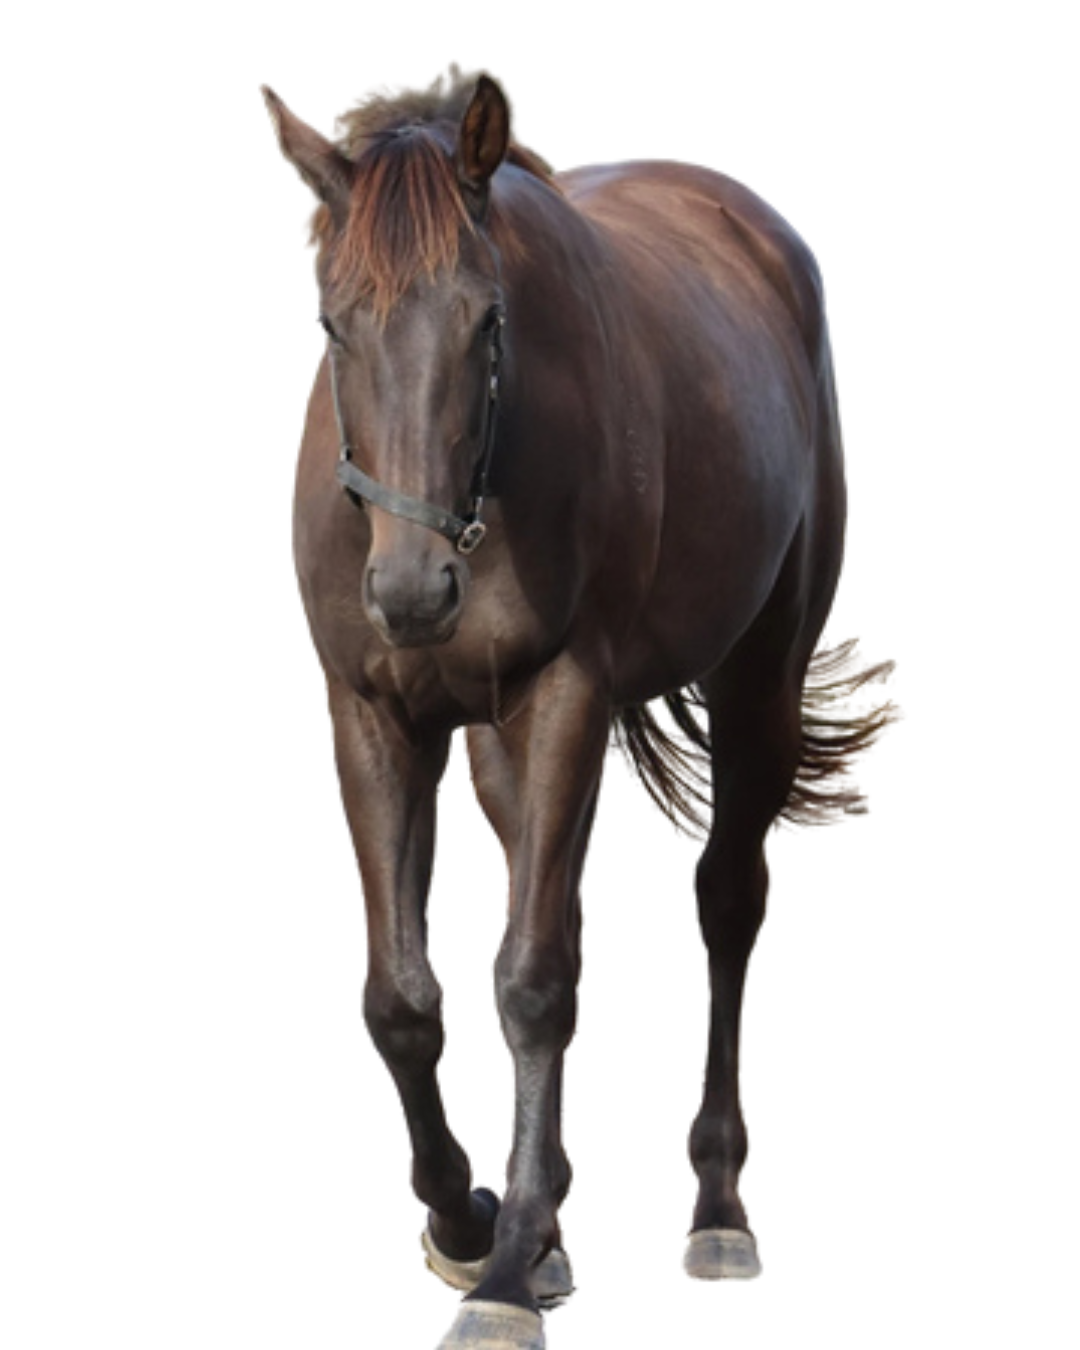
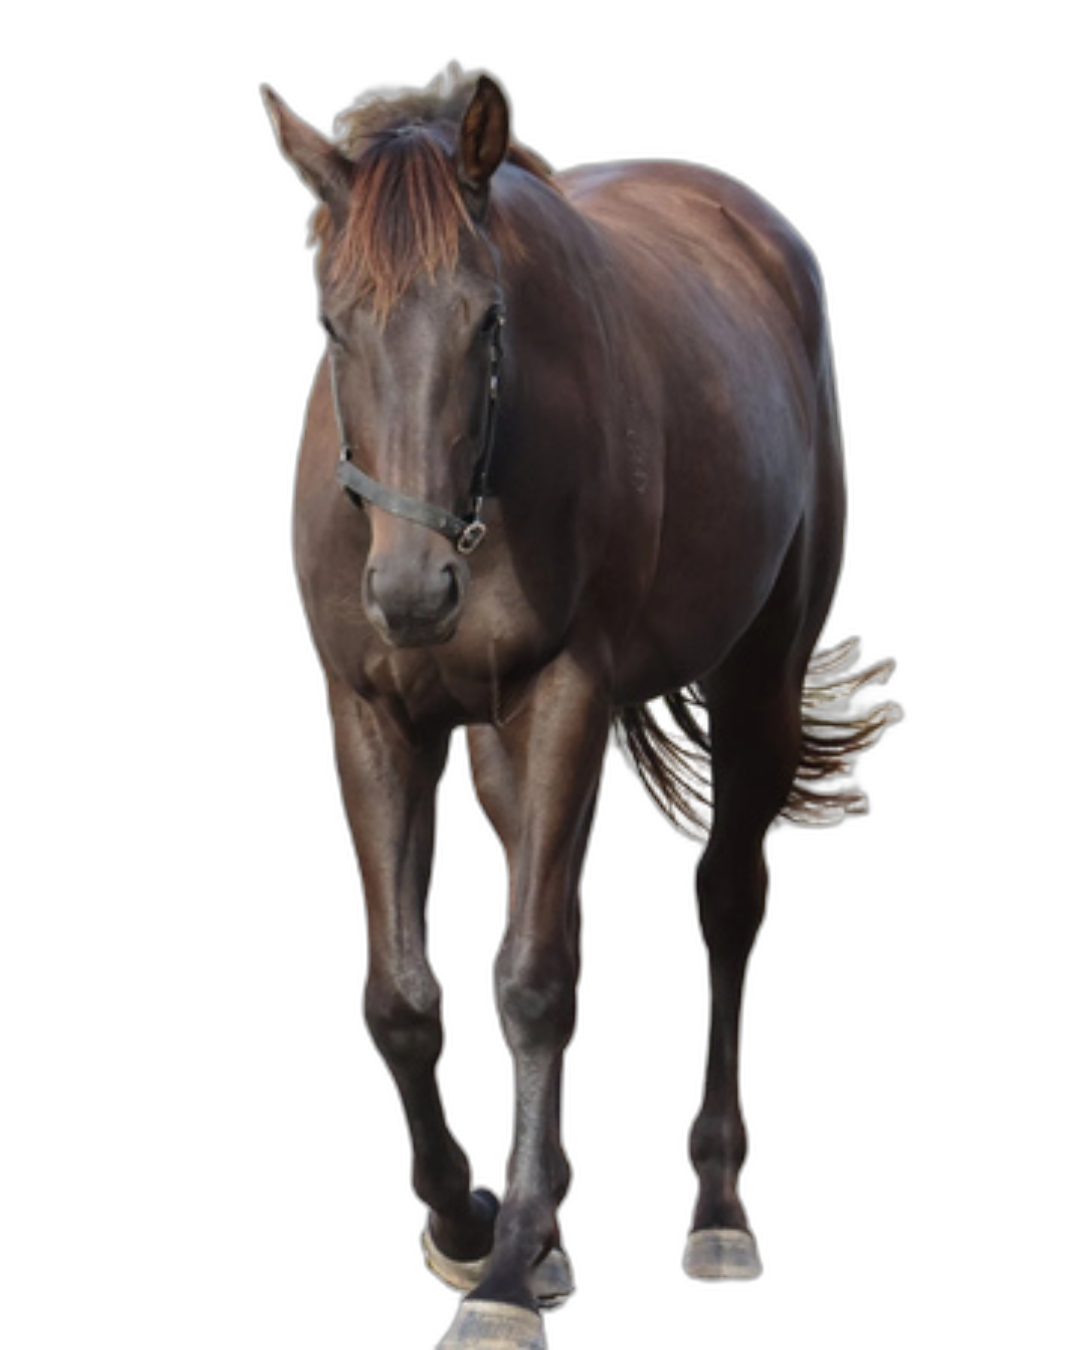
fix(media): re-cut nellie hero to RGBA + edge-white gate; drop dead nztr webp/png pair
- horses/nellie/01.png: RGB-white flatten -> RGBA cutout (rembg), fixes hero, OG image, MyStable thumbnail. Original preserved in media vault (md5-identical).
- packages/storage: edge-white gate test (samples 8 edge pixels, fails >=6 opaque near-white) wired into npm test, negative-proven against the flattened file.
- deleted unreferenced nztr-authorized-syndicator.{png,webp} (RGB-white trap, referenced nowhere).

diff --git a/packages/storage/tests/edge_white.test.ts b/packages/storage/tests/edge_white.test.ts
@@ -1,0 +1,59 @@
+/**
+ * Edge-white gate: no shipped public image may sit on an opaque white edge.
+ *
+ * Catches BOTH failure modes:
+ *  - RGB files flattened onto a white background (no alpha channel at all)
+ *  - RGBA files whose border pixels are opaque white (alpha present but unused)
+ *
+ * Method: for each image under apps/web/public, sample the 8 edge-midpoint /
+ * corner pixels. An image FAILS when >= 6 samples are opaque (alpha >= 250)
+ * AND near-white (min(R,G,B) >= 250). A flattened cutout scores 8/8; real
+ * photography almost never does.
+ *
+ * EXEMPT list: deliberate white-art-on-white compositions. Keep short, one
+ * public path per entry, with a reason.
+ *
+ * Implementation note: pixel work runs in Python/PIL (env has it; Node has no
+ * image codec). The helper lives in this package's tests/ dir.
+ */
+import assert from 'node:assert/strict';
+import { execFileSync } from 'node:child_process';
+import { dirname, join } from 'node:path';
+import { fileURLToPath } from 'node:url';
+
+console.log('Running @evo/storage edge-white gate...');
+
+const testDir = dirname(fileURLToPath(import.meta.url));
+const helper = join(testDir, 'edge_white_scan.py');
+
+let stdout: string;
+try {
+  stdout = execFileSync('python3', [helper], {
+    encoding: 'utf8',
+    maxBuffer: 64 * 1024 * 1024,
+    timeout: 120_000,
+  });
+} catch (err) {
+  const e = err as { stdout?: string; stderr?: string };
+  // Scanner prints failures as JSON lines; surface them verbatim on failure.
+  assert.fail(`edge-white scanner failed:\n${e.stdout ?? ''}${e.stderr ?? err}`);
+}
+
+const report = JSON.parse(stdout) as {
+  scanned: number;
+  failures: { path: string; whiteEdges: number }[];
+  exempt: string[];
+};
+
+assert.ok(report.scanned > 0, 'scanner must find images to scan');
+
+const offenders = report.failures.filter((f) => !report.exempt.includes(f.path));
+assert.deepEqual(
+  offenders,
+  [],
+  `opaque white edges found (flattened cutouts ship as white boxes):\n` +
+    offenders.map((f) => `  ${f.path} (${f.whiteEdges}/8 white edge samples)`).join('\n')
+);
+
+console.log(`OK: ${report.scanned} images scanned, 0 opaque-white edges` +
+  (report.exempt.length ? ` (${report.exempt.length} exempt)` : ''));

diff --git a/packages/storage/tests/edge_white_scan.py b/packages/storage/tests/edge_white_scan.py
@@ -1,0 +1,70 @@
+#!/usr/bin/env python3
+"""Edge-white scanner for the @evo/storage edge-white gate.
+
+Walks apps/web/public, samples 8 edge pixels per image, and prints a JSON
+report: {"scanned": N, "failures": [{path, whiteEdges}], "exempt": [...]}.
+
+A sample "hits" when it is opaque (alpha >= 250, or no alpha channel) and
+near-white (min(R,G,B) >= 250). An image fails when >= 6/8 samples hit.
+Paths in the report are public-root-relative (e.g. /horses/nellie/01.png).
+"""
+import json
+import sys
+from pathlib import Path
+
+from PIL import Image
+
+PUBLIC_DIR = Path(__file__).resolve().parents[3] / "apps" / "web" / "public"
+IMAGE_EXT = {".png", ".webp", ".jpg", ".jpeg"}
+
+# Deliberate white-art-on-white compositions. One public path per entry.
+EXEMPT: set[str] = set()
+
+EDGE_POINTS = [(0.5, 0.0), (0.5, 1.0), (0.0, 0.5), (1.0, 0.5),
+               (0.001, 0.001), (0.999, 0.001), (0.001, 0.999), (0.999, 0.999)]
+
+
+def white_edge_samples(path: Path) -> int:
+    im = Image.open(path)
+    im.load()
+    if im.mode != "RGBA":
+        # P may carry transparency in its palette; flatten assumes worst case
+        # (no alpha) which is exactly the RGB-flatten trap we want to catch.
+        im = im.convert("RGBA")
+    w, h = im.size
+    px = im.load()
+    hits = 0
+    for fx, fy in EDGE_POINTS:
+        x = min(w - 1, max(0, round(fx * (w - 1))))
+        y = min(h - 1, max(0, round(fy * (h - 1))))
+        r, g, b, a = px[x, y][:4]
+        if a >= 250 and min(r, g, b) >= 250:
+            hits += 1
+    return hits
+
+
+def main() -> int:
+    files = sorted(p for p in PUBLIC_DIR.rglob("*")
+                   if p.is_file() and p.suffix.lower() in IMAGE_EXT)
+    failures = []
+    for p in files:
+        rel = "/" + p.relative_to(PUBLIC_DIR).as_posix()
+        if rel in EXEMPT:
+            continue
+        try:
+            hits = white_edge_samples(p)
+        except Exception as exc:  # corrupt/undecodable image = failure, not skip
+            failures.append({"path": rel, "whiteEdges": 99, "error": str(exc)})
+            continue
+        if hits >= 6:
+            failures.append({"path": rel, "whiteEdges": hits})
+    print(json.dumps({
+        "scanned": len(files),
+        "failures": failures,
+        "exempt": sorted(EXEMPT),
+    }))
+    return 0
+
+
+if __name__ == "__main__":
+    sys.exit(main())
